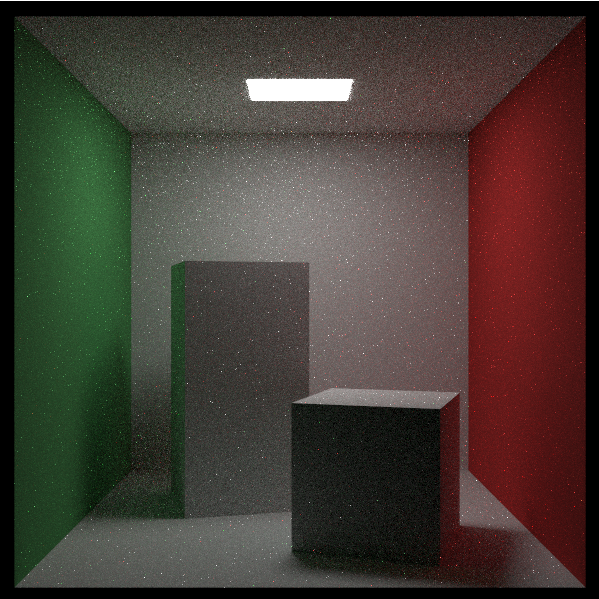
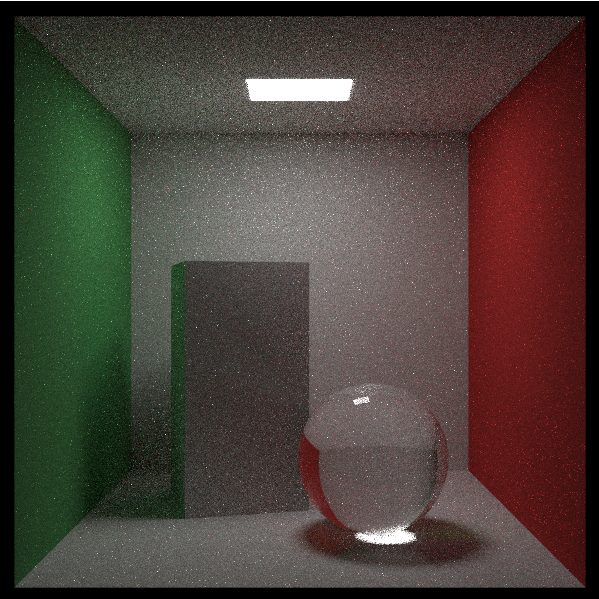
Finished the rest of your life book

diff --git a/material.go b/material.go
@@ -5,8 +5,15 @@ import (
 	"math/rand"
 )
 
+type scatterRecord struct {
+	specularRay ray
+	isSpecular  bool
+	attenuation Color3
+	pdf         pdf
+}
+
 type material interface {
-	scatter(rayIn *ray, rec *hitRecord, rnd *rand.Rand) (scattered *ray, attenuation *Color3, pdf float64, scatter bool)
+	scatter(rayIn *ray, rec *hitRecord, rnd *rand.Rand) (sRec *scatterRecord, scatter bool)
 	emitted(rayIn *ray, rec *hitRecord, u float64, v float64, p Point3) Color3
 	scatteringPdf(rayIn *ray, rec *hitRecord, scattered *ray) float64
 }
@@ -15,14 +22,14 @@ type lambertian struct {
 	albedo texture
 }
 
-func (lamb lambertian) scatter(rayIn *ray, rec *hitRecord, rnd *rand.Rand) (scattered *ray, attenuation *Color3, pdf float64, scatter bool) {
+func (lamb lambertian) scatter(rayIn *ray, rec *hitRecord, rnd *rand.Rand) (sRec *scatterRecord, scatter bool) {
 
-	uvw := buildFromW(rec.normal)
-	direction := uvw.local(RandomCosineDirection(rnd))
-	scattered = &ray{rec.p, direction.Normalize(), rayIn.time}
-	at := lamb.albedo.value(rec.u, rec.v, rec.p)
-	pdf = uvw.w().Dot(scattered.direction) / math.Pi
-	return scattered, &at, pdf, true
+	var sRecord scatterRecord
+	sRecord.isSpecular = false
+	sRecord.attenuation = lamb.albedo.value(rec.u, rec.v, rec.p)
+	sRecord.pdf = newCosinePdf(rec.normal)
+
+	return &sRecord, true
 }
 
 func (lamb lambertian) emitted(rayIn *ray, rec *hitRecord, u float64, v float64, p Point3) Color3 {
@@ -42,13 +49,15 @@ type metal struct {
 	fuzz   float64 //Radius of sphere
 }
 
-func (m metal) scatter(rayIn *ray, rec *hitRecord, rnd *rand.Rand) (scattered *ray, attenuation *Color3, pdf float64, scatter bool) {
+func (m metal) scatter(rayIn *ray, rec *hitRecord, rnd *rand.Rand) (sRec *scatterRecord, scatter bool) {
 
-	Reflected := Reflect(rayIn.direction.Normalize(), rec.normal)
-
-	scattered = &ray{rec.p, Reflected.Add(RandomInUnitSphere(rnd).Mult(m.fuzz)), rayIn.time}
-	attenuation = &m.albedo
-	return scattered, attenuation, 0, scattered.direction.Dot(rec.normal) > 0
+	reflected := Reflect(rayIn.direction.Normalize(), rec.normal)
+	var sRecord scatterRecord
+	sRecord.specularRay = ray{rec.p, reflected.Add(RandomInUnitSphere(rnd).Mult(m.fuzz)), 0}
+	sRecord.attenuation = m.albedo
+	sRecord.isSpecular = true
+	sRecord.pdf = nil
+	return &sRecord, true
 }
 
 func (m metal) emitted(rayIn *ray, rec *hitRecord, u float64, v float64, p Point3) Color3 {
@@ -63,7 +72,11 @@ type dielectric struct {
 	ir float64 //Index of Refraction
 }
 
-func (m dielectric) scatter(rayIn *ray, rec *hitRecord, rnd *rand.Rand) (scattered *ray, attenuation *Color3, pdf float64, scatter bool) {
+func (m dielectric) scatter(rayIn *ray, rec *hitRecord, rnd *rand.Rand) (sRec *scatterRecord, scatter bool) {
+
+	var sRecord scatterRecord
+	sRecord.isSpecular = true
+	sRecord.pdf = nil
 
 	var RefractionRatio float64
 	if rec.frontFace {
@@ -86,10 +99,10 @@ func (m dielectric) scatter(rayIn *ray, rec *hitRecord, rnd *rand.Rand) (scatter
 
 	}
 
-	attenuation = &Color3{1, 1, 1}
-	scattered = &ray{rec.p, direction, rayIn.time}
+	sRecord.attenuation = Color3{1, 1, 1}
+	sRecord.specularRay = ray{rec.p, direction, rayIn.time}
 
-	return scattered, attenuation, 0, true
+	return &sRecord, true
 }
 
 func (m dielectric) emitted(rayIn *ray, rec *hitRecord, u float64, v float64, p Point3) Color3 {
@@ -110,8 +123,8 @@ type diffuseLight struct {
 	emit texture
 }
 
-func (m diffuseLight) scatter(rayIn *ray, rec *hitRecord, rnd *rand.Rand) (scattered *ray, attenuation *Color3, pdf float64, scatter bool) {
-	return nil, nil, 0, false
+func (m diffuseLight) scatter(rayIn *ray, rec *hitRecord, rnd *rand.Rand) (sRec *scatterRecord, scatter bool) {
+	return nil, false
 }
 
 func (m diffuseLight) emitted(rayIn *ray, rec *hitRecord, u float64, v float64, p Point3) Color3 {
@@ -129,10 +142,11 @@ type isotropic struct {
 	albedo texture
 }
 
-func (m isotropic) scatter(rayIn *ray, rec *hitRecord, rnd *rand.Rand) (scattered *ray, attenuation *Color3, pdf float64, scatter bool) {
-	s := ray{rec.p, RandomInUnitSphere(rnd), rayIn.time}
-	a := m.albedo.value(rec.u, rec.v, rec.p)
-	return &s, &a, 0, true
+func (m isotropic) scatter(rayIn *ray, rec *hitRecord, rnd *rand.Rand) (sRec *scatterRecord, scatter bool) {
+	// s := ray{rec.p, RandomInUnitSphere(rnd), rayIn.time}
+	// a := m.albedo.value(rec.u, rec.v, rec.p)
+	// return &s, &a, 0, true
+	return nil, true
 }
 
 func (m isotropic) emitted(rayIn *ray, rec *hitRecord, u float64, v float64, p Point3) Color3 {

diff --git a/ray.go b/ray.go
@@ -47,36 +47,21 @@ func (r *ray) RayColor(world hittable, background Color3, maxDepth int, rnd *ran
 	}
 
 	emitted := rec.mat.emitted(r, rec, rec.u, rec.v, rec.p)
-	scattered, albedo, pdfVal, scatter := rec.mat.scatter(r, rec, rnd)
+	sRec, scatter := rec.mat.scatter(r, rec, rnd)
 	// attenuation.Print()
 	if !scatter {
 		return emitted
 	}
 
-	// onLight := Point3{RandomDoubleRange(213, 343, rnd), 554, RandomDoubleRange(227, 332, rnd)}
-	// toLight := onLight.Sub(rec.p)
-	// distanceSquared := toLight.LengthSquared()
-	// toLight = toLight.Normalize()
+	if sRec.isSpecular {
+		return sRec.attenuation.MultEach(sRec.specularRay.RayColor(world, background, maxDepth-1, rnd, lights))
+	}
 
-	// if toLight.Dot(rec.normal) < 0 {
-	// 	return emitted
-	// }
+	light := hittablePdf{lights, rec.p}
+	p := mixturePdf{[2]pdf{light, sRec.pdf}}
 
-	// lightArea := (343 - 213) * (332 - 227)
-	// lightCosine := math.Abs(toLight.Y())
-	// if lightCosine < 0.0000001 {
-	// 	return emitted
-	// }
+	scattered := &ray{rec.p, p.generate(rnd), r.time}
+	pdfVal := p.value(scattered.direction)
 
-	// pdf = distanceSquared / (lightCosine * float64(lightArea))
-	// scattered = &ray{rec.p, toLight, r.time}
-
-	p0 := hittablePdf{lights, rec.p}
-	p1 := newCosinePdf(rec.normal)
-	mixedPdf := mixturePdf{[2]pdf{p0, p1}}
-
-	scattered = &ray{rec.p, mixedPdf.generate(rnd), r.time}
-	pdfVal = mixedPdf.value(scattered.direction)
-
-	return emitted.Add(albedo.MultEach(scattered.RayColor(world, background, maxDepth-1, rnd, lights).Mult(rec.mat.scatteringPdf(r, rec, scattered)).Div(pdfVal)))
+	return emitted.Add(sRec.attenuation.MultEach(scattered.RayColor(world, background, maxDepth-1, rnd, lights).Mult(rec.mat.scatteringPdf(r, rec, scattered)).Div(pdfVal)))
 }

diff --git a/hittable.go b/hittable.go
@@ -93,11 +93,22 @@ func (s *sphere) boundingBox(time0 float64, time1 float64) (aabb, bool) {
 }
 
 func (s *sphere) pdfValue(o Point3, v Vec3) float64 {
-	return 0
+	_, hit := s.hit(&ray{o, v, 0}, 0.001, infinity)
+	if !hit {
+		return 0
+	}
+
+	cosThetaMax := math.Sqrt(1.0 - s.radius*s.radius/(s.center.Sub(o).LengthSquared()))
+	solidAngle := 2 * math.Pi * (1.0 - cosThetaMax)
+
+	return 1.0 / solidAngle
 }
 
 func (s *sphere) random(o Vec3, rnd *rand.Rand) Vec3 {
-	return Vec3{1, 0, 0}
+	direction := s.center.Sub(o)
+	distanceSquared := direction.LengthSquared()
+	uvw := buildFromW(direction)
+	return uvw.local(RandomToSphere(s.radius, distanceSquared, rnd))
 }
 
 func (s *sphere) getSphereUV(p Point3) (u float64, v float64) {
@@ -245,11 +256,19 @@ func (list *hittableList) boundingBox(time0 float64, time1 float64) (outputBox a
 }
 
 func (list *hittableList) pdfValue(o Point3, v Vec3) float64 {
-	return 0
+
+	weight := 1.0 / float64(len(list.objects))
+	sum := 0.0
+
+	for _, obj := range list.objects {
+		sum += weight * obj.pdfValue(o, v)
+	}
+
+	return sum
 }
 
 func (list *hittableList) random(o Vec3, rnd *rand.Rand) Vec3 {
-	return Vec3{1, 0, 0}
+	return list.objects[rand.Intn(len(list.objects))].random(o, rnd)
 }
 
 type bvhNode struct {

diff --git a/scenes.go b/scenes.go
@@ -197,15 +197,19 @@ func cornellBox() hittable {
 	world.Add(&xzRect{white, 0, 555, 0, 555, 555})
 	world.Add(&xyRect{white, 0, 555, 0, 555, 555})
 
+	// aluminum := metal{Color3{0.8, 0.85, 0.88}, 0.0}
 	var box1 hittable = newBox(Point3{0, 0, 0}, Point3{165, 330, 165}, white)
 	box1 = newRotateY(box1, 15)
 	box1 = &translate{box1, Vec3{265, 0, 295}}
 	world.Add(box1)
 
-	var box2 hittable = newBox(Point3{0, 0, 0}, Point3{165, 165, 165}, white)
-	box2 = newRotateY(box2, -18)
-	box2 = &translate{box2, Vec3{130, 0, 65}}
-	world.Add(box2)
+	// var box2 hittable = newBox(Point3{0, 0, 0}, Point3{165, 165, 165}, white)
+	// box2 = newRotateY(box2, -18)
+	// box2 = &translate{box2, Vec3{130, 0, 65}}
+	// world.Add(box2)
+
+	glass := dielectric{1.5}
+	world.Add(&sphere{Point3{190, 90, 190}, 90, glass})
 
 	return newBvhNode(world.objects, 0.0, 1.0)
 }

diff --git a/main.go b/main.go
@@ -41,7 +41,9 @@ func main() {
 	vfov := 40.0
 	aperture := 0.0
 
-	var lights hittable = &xzRect{lambertian{}, 213, 343, 227, 332, 554}
+	var lights hittableList
+	lights.Add(&xzRect{lambertian{}, 213, 343, 227, 332, 554})
+	lights.Add(&sphere{Point3{190, 90, 190}, 90, metal{}})
 
 	switch 6 {
 	case 1:
@@ -154,7 +156,7 @@ func main() {
 				ch := make(chan Color3, opts.samplesPerPixel)
 
 				pixelColor := Color3{0, 0, 0}
-				sendRays(world, &c, x, row, &opts, ch, lights)
+				sendRays(world, &c, x, row, &opts, ch, &lights)
 
 				for i := 0; i < opts.samplesPerPixel; i++ {
 					pixelColor = pixelColor.Add(<-ch)

diff --git a/utils.go b/utils.go
@@ -44,3 +44,15 @@ func RandomCosineDirection(rnd *rand.Rand) Vec3 {
 
 	return Vec3{x, y, z}
 }
+
+func RandomToSphere(radius float64, distanceSquared float64, rnd *rand.Rand) Vec3 {
+	r1 := RandomDouble(rnd)
+	r2 := RandomDouble(rnd)
+	z := 1 + r2*(math.Sqrt(1-radius*radius/distanceSquared)-1)
+
+	phi := 2 * math.Pi * r1
+	x := math.Cos(phi) * math.Sqrt(1-z*z)
+	y := math.Sin(phi) * math.Sqrt(1-z*z)
+
+	return Vec3{x, y, z}
+}

diff --git a/vec3.go b/vec3.go
@@ -173,6 +173,16 @@ func Color3ToRGBA(c Color3, samplesPerPixel int) color.RGBA {
 	g := c.Y()
 	b := c.Z()
 
+	if r != r {
+		r = 0.0
+	}
+	if g != g {
+		g = 0.0
+	}
+	if b != b {
+		b = 0.0
+	}
+
 	scale := 1.0 / float64(samplesPerPixel)
 	r = math.Sqrt(scale * r)
 	g = math.Sqrt(scale * g)
